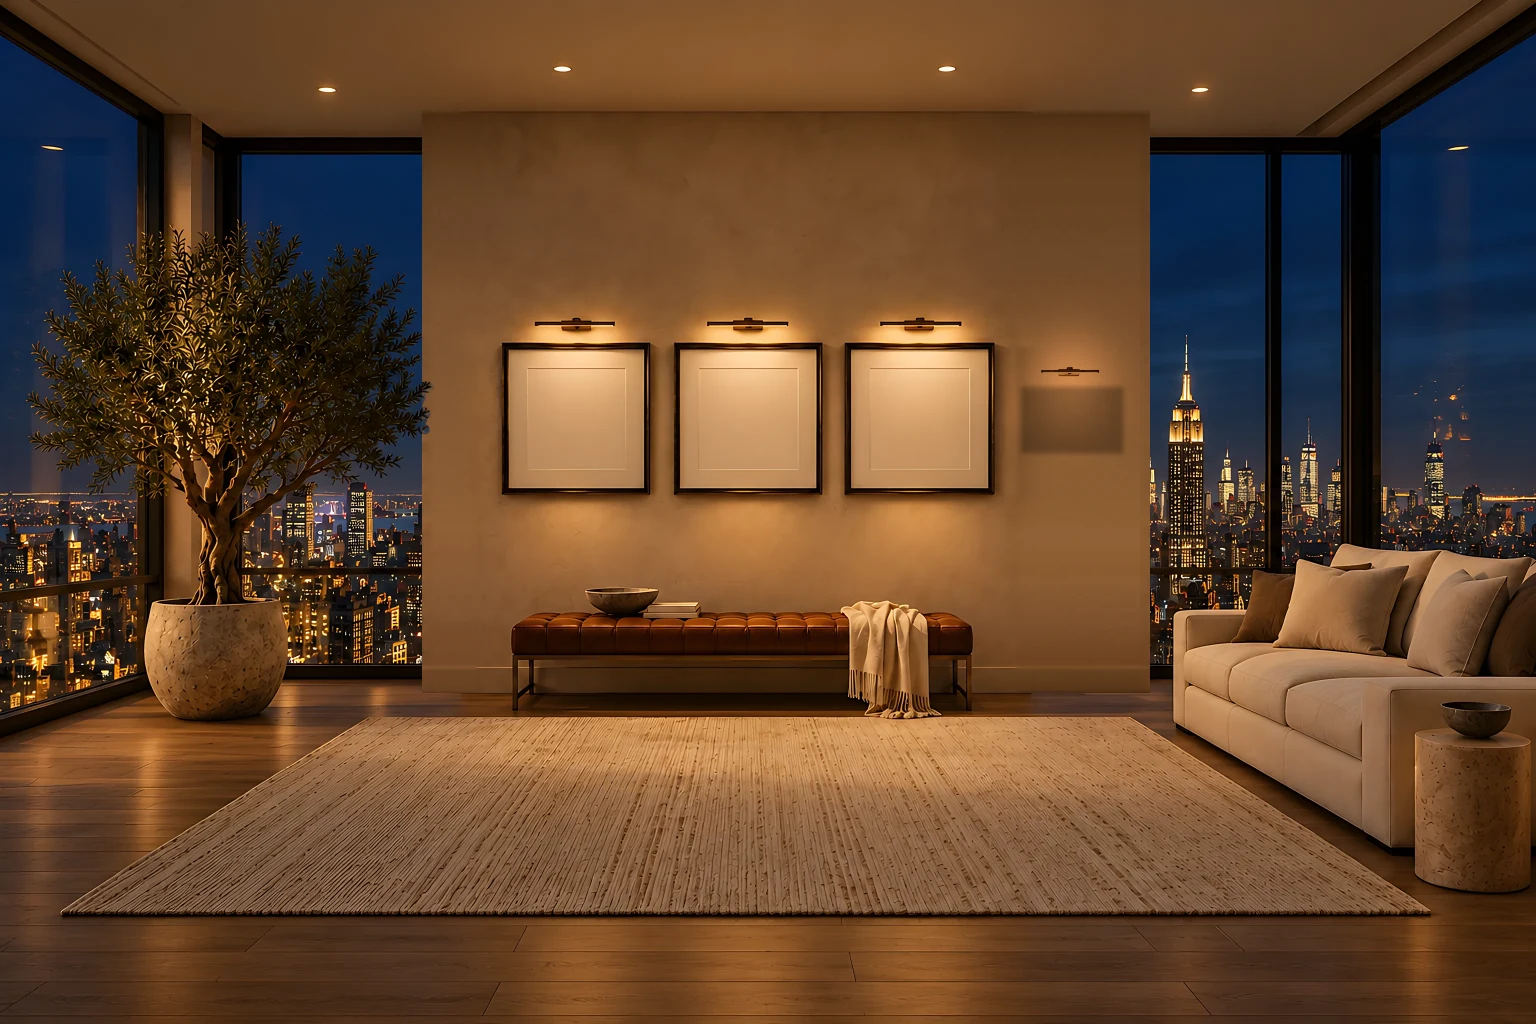
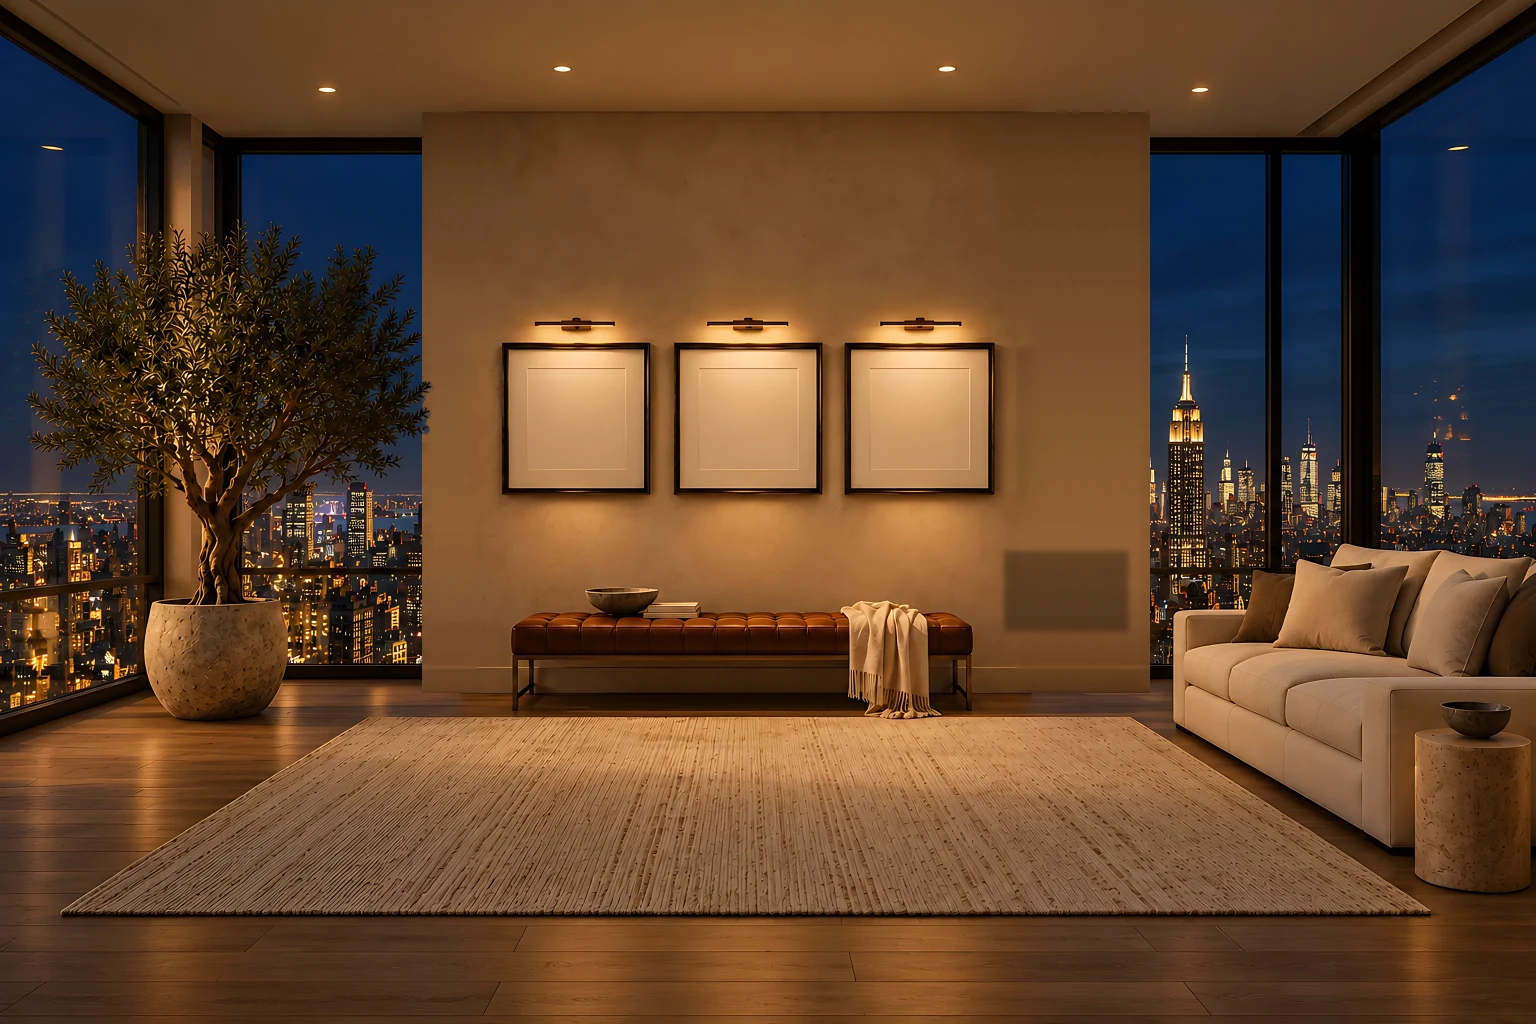
Home: hang the travel map low beside the bench
Per Femi, the map leaves the paintings' row and hangs low on the widened
wall by the empty end of the bench, without a picture light. The wall is
rebuilt from the unwidened renders; the caption sits under the map on a
soft wash (contrast 6.7-12.4 in all lights).

Claude-Session: https://claude.ai/code/session_01Q2iX8U4MkKUcYxVfpZrcab

Changed region(s): [[0.6562, 0.3125, 0.75, 0.4688], [0.6562, 0.5312, 0.75, 0.625]]

diff --git a/src/app/globals.css b/src/app/globals.css
@@ -745,7 +745,11 @@ html[data-time='night'] .room5 img[data-light='night'] { opacity: 1; }
 .room5__art--map { background: #e9dfcc; }
 .room5__art--map::after { box-shadow: none; }      /* the map carries its own frame; the wall shadow is in the room image */
 .room5__hang--map::before { display: none; }
-.room5__frame--map::before { content: ''; position: absolute; left: -10%; right: -10%; bottom: -4%; height: 34%; z-index: -1; background: radial-gradient(ellipse 52% 50% at 50% 56%, var(--cap-wash) 62%, transparent 100%); }
+.room5__frame--map::before { content: ''; position: absolute; left: -10%; right: -10%; bottom: -6%; height: 50%; z-index: -1; background: radial-gradient(ellipse 52% 50% at 50% 54%, var(--map-wash) 64%, transparent 100%); }
+/* the low wall sits in the bench's shade and the sun streaks, so this caption always gets a soft wash */
+.room5 { --map-wash: rgba(250, 243, 230, .6); }
+html[data-time='golden'] .room5 { --map-wash: rgba(255, 236, 205, .62); }
+html[data-time='night'] .room5 { --map-wash: rgba(255, 228, 190, .7); }
 .room5__frame--map { isolation: isolate; }
 .room5__art::after { content: ''; position: absolute; inset: 0; box-shadow: inset .14cqw .22cqw .38cqw rgba(0, 0, 0, .34), inset 0 0 0 1px rgba(0, 0, 0, .14); pointer-events: none; }
 

diff --git a/src/content/scene.ts b/src/content/scene.ts
@@ -45,7 +45,7 @@ export const FRAMES: Frame[] = [
   { id: 'gs', company: 'Goldman Sachs', role: 'Senior Associate, Global Banking and Markets Transformation', dates: 'Nov 2023 – Present', years: '2023 – Present', href: '/experience#goldman-sachs', art: '/art/gs-painting', mat: [870, 368, 100, 102], hitbox: [841, 339, 157, 247] },
 ]
 
-/** The travel map hung beside the paintings on the widened wall (Femi's supplied artwork; docs/decision-log.md DL-46). */
+/** The travel map, hung low on the widened wall beside the bench's empty end (Femi's supplied artwork; docs/decision-log.md DL-46). */
 export const MAP = {
   title: 'Travel',
   /** Website wording (Travel page: "30+ countries · 60+ cities"; About: "more than thirty countries and counting"). */
@@ -53,8 +53,8 @@ export const MAP = {
   label: 'more than thirty countries and counting',
   href: '/about#outside-work',
   art: '/art/map',
-  mat: [1020, 384, 102, 66] as Rect,
-  hitbox: [1004, 339, 136, 247] as Rect,
+  mat: [1003, 548, 124, 80] as Rect,
+  hitbox: [995, 540, 142, 142] as Rect,
 }
 
 export const pct = (v: number, of: number) => `${(v / of) * 100}%`

diff --git a/docs/asset-lock/scripts/wall.py b/docs/asset-lock/scripts/wall.py
@@ -4,11 +4,12 @@ Master px (1536x1024); renders are 3072 (S=2). Wall: x 462-1030, y 112-~697. New
 Light: each new column continues the wall's own edge light along the measured sun-streak direction (so streaks carry on);
 plaster texture is the wall's own fine detail; the edge profile (light falloff at the corner) is moved to the new edge."""
 import cv2, numpy as np, sys
-R = '/home/user/femi-portfolio/public/room/v5/'; OUT = sys.argv[1]
+R = sys.argv[2] if len(sys.argv) > 2 else '/home/user/femi-portfolio/public/room/v5/'; OUT = sys.argv[1]   # R: the unwidened renders
 S = 2; T, B = 112, 693
 L0, L1, R0, R1 = 462, 422, 1030, 1150
 SLOPE = {'morning': .324, 'golden': .394, 'night': 0.0}
-MAP = (1020, 384, 102, 66)                 # travel map rect (master): the supplied frame is 1500x971 (1.545)
+MAP = (1003, 548, 124, 80)                 # travel map (master), hung low beside the bench's empty end; frame ratio 1.545
+LAMP = False                               # no picture light at this height
 tree = cv2.resize(cv2.imread(R + 'masks/tree.png', 0), (3072, 2048), interpolation=cv2.INTER_LINEAR).astype(np.float32) / 255
 mo = cv2.imread(R + 'morning-3072.webp').astype(np.float32)
 lum = mo @ np.array([.114, .587, .299], np.float32)
@@ -71,28 +72,31 @@ for mode in ('morning', 'golden', 'night'):
     sh = np.zeros((H, W), np.float32); cv2.rectangle(sh, ((x + 1) * S, (y + 3) * S), ((x + w + 1) * S, (y + h + 3) * S), 1, -1)
     sh = cv2.GaussianBlur(sh, (0, 0), 2.5 * S)
     new *= (1 - .32 * sh)[..., None]
-    # picture light: the Goldman Sachs lamp, scaled to the map's width, with its wall glow
-    lamp_box = (880, 314, 84, 22)                                         # lamp over the GS frame (master)
-    lx, ly, lw, lh = lamp_box
-    patch = im[ly * S:(ly + lh) * S, lx * S:(lx + lw) * S]
-    wall_ref = im[(ly - 14) * S:(ly - 4) * S, lx * S:(lx + lw) * S].mean((0, 1))
-    plum = patch @ np.array([.114, .587, .299], np.float32); wlum = wall_ref @ np.array([.114, .587, .299], np.float32)
-    alpha = np.clip((wlum - 18 - plum) / 30, 0, 1)
-    alpha = cv2.GaussianBlur(alpha, (0, 0), .8)
-    sc = 0.72; nw, nh = int(lw * S * sc), int(lh * S * sc)
-    patch = cv2.resize(patch, (nw, nh), interpolation=cv2.INTER_AREA); alpha = cv2.resize(alpha, (nw, nh))[..., None]
-    cx = (x + w / 2) * S; py = int((y - 4) * S - nh)
-    px = int(cx - nw / 2)
-    # glow on the wall below the lamp: measured from the GS lamp (wall just under it vs the plain margin, same rows)
-    glow_gs = im[(ly + lh) * S:(ly + lh + 12) * S, (lx + 10) * S:(lx + lw - 10) * S].mean() / (im[(ly + lh) * S:(ly + lh + 12) * S, 1000 * S:1026 * S].mean() + 1)
-    gy, gx = np.mgrid[0:H, 0:W].astype(np.float32)
-    cone = np.exp(-(((gx - cx) / (w * .42 * S)) ** 2) - ((gy - py - h * .3 * S) / (h * .75 * S)) ** 2)
-    gain = max(glow_gs - 1, 0)
-    new *= (1 + gain * cone)[..., None]
-    reg = new[py:py + nh, px:px + nw]
-    new[py:py + nh, px:px + nw] = reg * (1 - alpha) + patch * alpha
-    out[mode] = np.clip(new, 0, 255)
-    print(mode, 'lamp glow gain', round(float(gain), 3))
+    if not LAMP:
+        out[mode] = np.clip(new, 0, 255); print(mode, 'no lamp')
+    if LAMP:
+        # picture light: the Goldman Sachs lamp, scaled to the map's width, with its wall glow
+        lamp_box = (880, 314, 84, 22)                                         # lamp over the GS frame (master)
+        lx, ly, lw, lh = lamp_box
+        patch = im[ly * S:(ly + lh) * S, lx * S:(lx + lw) * S]
+        wall_ref = im[(ly - 14) * S:(ly - 4) * S, lx * S:(lx + lw) * S].mean((0, 1))
+        plum = patch @ np.array([.114, .587, .299], np.float32); wlum = wall_ref @ np.array([.114, .587, .299], np.float32)
+        alpha = np.clip((wlum - 18 - plum) / 30, 0, 1)
+        alpha = cv2.GaussianBlur(alpha, (0, 0), .8)
+        sc = 0.72; nw, nh = int(lw * S * sc), int(lh * S * sc)
+        patch = cv2.resize(patch, (nw, nh), interpolation=cv2.INTER_AREA); alpha = cv2.resize(alpha, (nw, nh))[..., None]
+        cx = (x + w / 2) * S; py = int((y - 4) * S - nh)
+        px = int(cx - nw / 2)
+        # glow on the wall below the lamp: measured from the GS lamp (wall just under it vs the plain margin, same rows)
+        glow_gs = im[(ly + lh) * S:(ly + lh + 12) * S, (lx + 10) * S:(lx + lw - 10) * S].mean() / (im[(ly + lh) * S:(ly + lh + 12) * S, 1000 * S:1026 * S].mean() + 1)
+        gy, gx = np.mgrid[0:H, 0:W].astype(np.float32)
+        cone = np.exp(-(((gx - cx) / (w * .42 * S)) ** 2) - ((gy - py - h * .3 * S) / (h * .75 * S)) ** 2)
+        gain = max(glow_gs - 1, 0)
+        new *= (1 + gain * cone)[..., None]
+        reg = new[py:py + nh, px:px + nw]
+        new[py:py + nh, px:px + nw] = reg * (1 - alpha) + patch * alpha
+        out[mode] = np.clip(new, 0, 255)
+        print(mode, 'lamp glow gain', round(float(gain), 3))
     for wd in (3072, 2048, 1536):
         cv2.imwrite(f'{OUT}/{mode}-{wd}.webp', cv2.resize(out[mode], (wd, wd * 2 // 3), interpolation=cv2.INTER_AREA).astype(np.uint8), [cv2.IMWRITE_WEBP_QUALITY, 88])
 # review: before/after, all lights

diff --git a/docs/qa/wall-map/README.md b/docs/qa/wall-map/README.md
@@ -6,21 +6,23 @@ Requests:
 
 Femi's choices: widen the wall in the room image, and hang the map beside the Goldman Sachs painting.
 
+**Revision (Femi):** "the travel frame should not be on the same line with the company logos, it be below by the empty side of the chair". The map now hangs **low, beside the empty right end of the bench**, below the paintings' row, with no picture light. The wall is rebuilt from the unwidened renders, so there's no leftover lamp or shadow.
+
 ## Wall (`docs/asset-lock/scripts/wall.py`, all three lights, 3072/2048/1536)
 - **Size:** x 462–1030 → **422–1150** (master px). It stops short of the Empire State Building, and the tree stays in front on the left (leaf matte).
 - **Light:** each new column continues the wall's own edge light along the measured sun-streak angle (morning 0.32, golden 0.39), so the streaks carry on. At night, the light is the room's ambient light plus the neighbouring picture light's spill, fading with distance.
 - **Texture and corners:** the plaster texture is the wall's own fine detail. The old corner shading moves to the new edges, with a 6 px blend at the joins.
-- **Map hanging:** the map gets a soft contact shadow and its own picture light, a scaled copy of the Goldman Sachs lamp, which glows at night.
+- **Map hanging:** the map gets a soft contact shadow. The picture-light option (`LAMP`) is off for the low hang.
 - **Sky masks:** the moving-sky masks and `masks/window.png` no longer include the new wall areas.
 
 ## Map (`map.py`)
 - **Source:** Femi's artwork, cropped to its frame (1500×971).
-- **Lighting:** lit per light by the wall behind it (same method as the paintings), shown as a live layer at mat `[1020, 384, 102, 66]`.
-- **Link:** "Travel · 30+ countries", in the same style as the company captions, linking to `/about#outside-work`. There's a tap target on tablet and phone. The phone close-up now shows the paintings, the map and the bench (crop `[472, 250, 676, 499]`).
+- **Lighting:** lit per light by the wall behind it (same method as the paintings), shown as a live layer at mat `[1003, 548, 124, 80]`.
+- **Link:** "Travel · 30+ countries", in the same style as the company captions, sitting under the map on its own soft wash (the low wall is in the bench's shade and the sun streaks), linking to `/about#outside-work`. There's a tap target on tablet and phone. The phone close-up now shows the paintings, the map and the bench (crop `[472, 250, 676, 499]`).
 
 ## Verified (Chromium)
 - **Layout:** at 1920×1080 and 1366×657 in all three lights, the map loads and clicks through to About. At 900×1200 and 390×844 the tap targets work. Nothing overflows the page width. The moving sky stays on.
-- **Caption contrast** (rendered pixels): "Travel" 8.4–9.0, "30+ countries" 5.9–9.0, all ≥ 4.5.
+- **Caption contrast** (rendered pixels, low hang): "Travel" 9.9–12.4, "30+ countries" 6.7–10.6, all ≥ 4.5.
 
 ## Content note
 The artwork's own text reads **"30 countries visited · 60+ cities explored"**. The website says "30+ countries · 60+ cities". The wall caption uses the website wording (D-25).

diff --git a/docs/decision-log.md b/docs/decision-log.md
@@ -51,3 +51,4 @@ Newest last. Each entry records the decision, why it was made and what would rev
 | DL-44 | 2026-10-14 | 5 | The Experience page shows each company's **Home painting** (the same supplied artwork), hung as a small framed picture above the company name. It's decorative (`alt=""`), because the name follows it. | Femi: "the company logo used in the home page [should] also appear accordingly in the experience". This extends DL-19 from Home to Experience. | Femi prefers official marks there |
 | DL-45 | 2026-10-15 | 5 | Femi's two new interiors become full-bleed page images under the heading: **monitor on a stone console → Work**, **walnut desk above Manhattan → Experience**. Supersedes DL-20 for those two pages. | Femi: "use one for work page and the other for experience page". The diagram on the monitor suits process and work; the office and skyline suit a career | Femi swaps them |
 | DL-46 | 2026-10-15 | 4 | The Home wall is **widened in the room image** (x 422–1150 in all lights) and Femi's **travel map** hangs beside the Goldman Sachs painting, with its own picture light. It's a live, per-light layer linking to About, captioned "Travel · 30+ countries". The phone crop widens to include it. | Femi chose "Widen wall, hang map" and "Wider wall in the room". It's the career + life balance suggested for a well-rounded image (docs/qa/wall-map) | Femi prefers the map elsewhere |
+| DL-47 | 2026-10-15 | 4 | The travel map moves off the paintings' row: it hangs **low, beside the empty right end of the bench**, with no picture light. Its caption sits under it on a soft wash. | Femi: "the travel frame should not be on the same line with the company logos, it be below by the empty side of the chair" | — |
